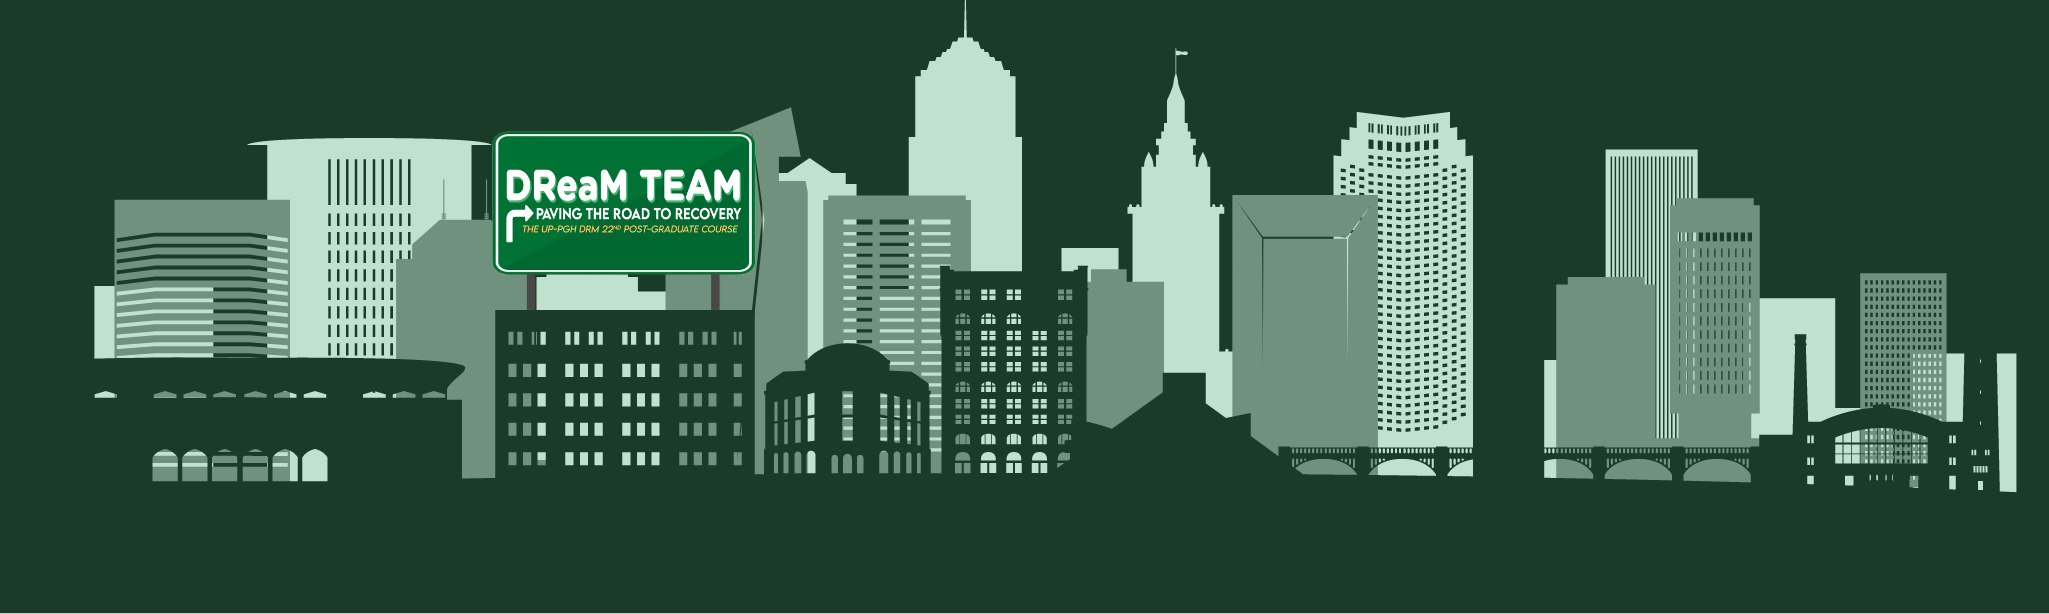
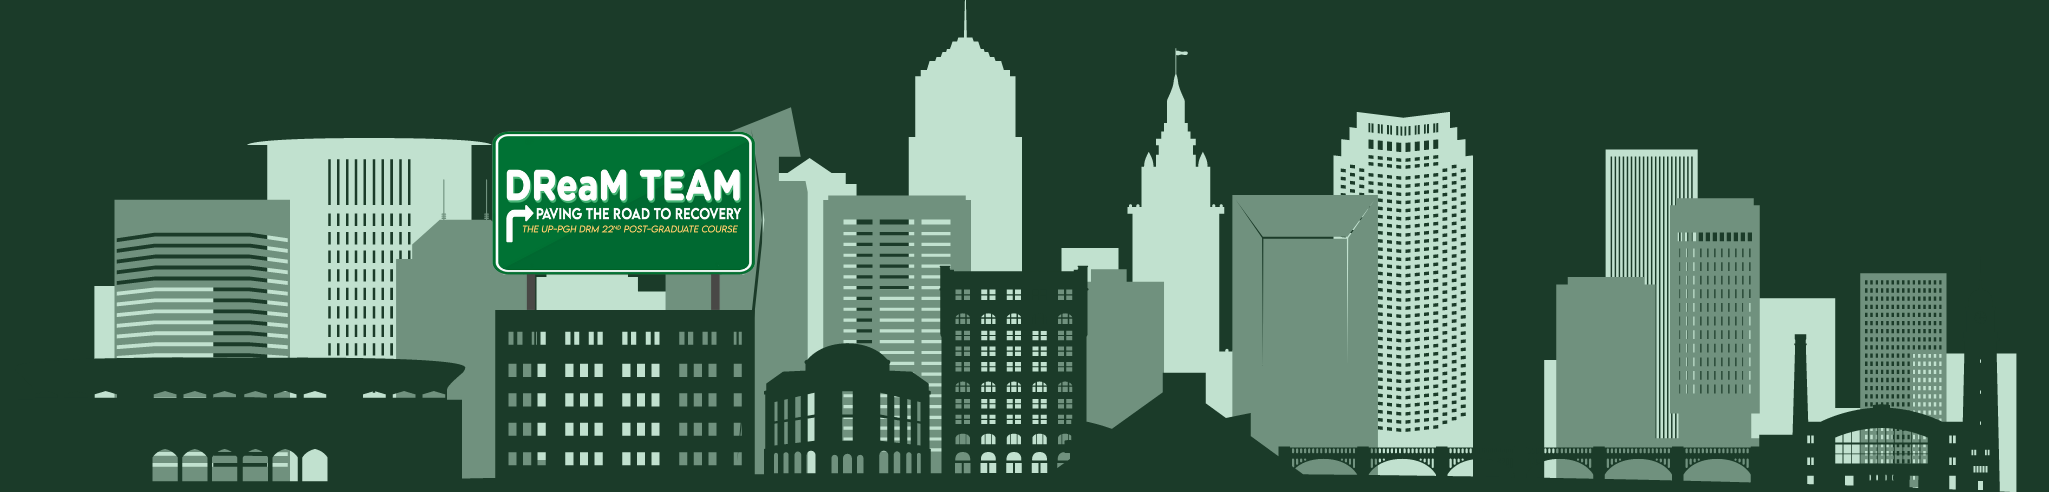
Change header size

diff --git a/components/Header.js b/components/Header.js
@@ -8,7 +8,7 @@ import headerImage from "/public/Header.png";
 function Header() {
   return (
     <header id="top" className="w-full overflow-hidden relative z-20">
-      <div className="h-20 xs:h-40 sm:h-50 md:h-60 lg:h-70 xl:h-80">
+      <div className="h-20 xs:h-30 sm:h-40 md:h-50 lg:h-60 xl:h-70">
         <Image
           src={headerImage}
           alt="header"
